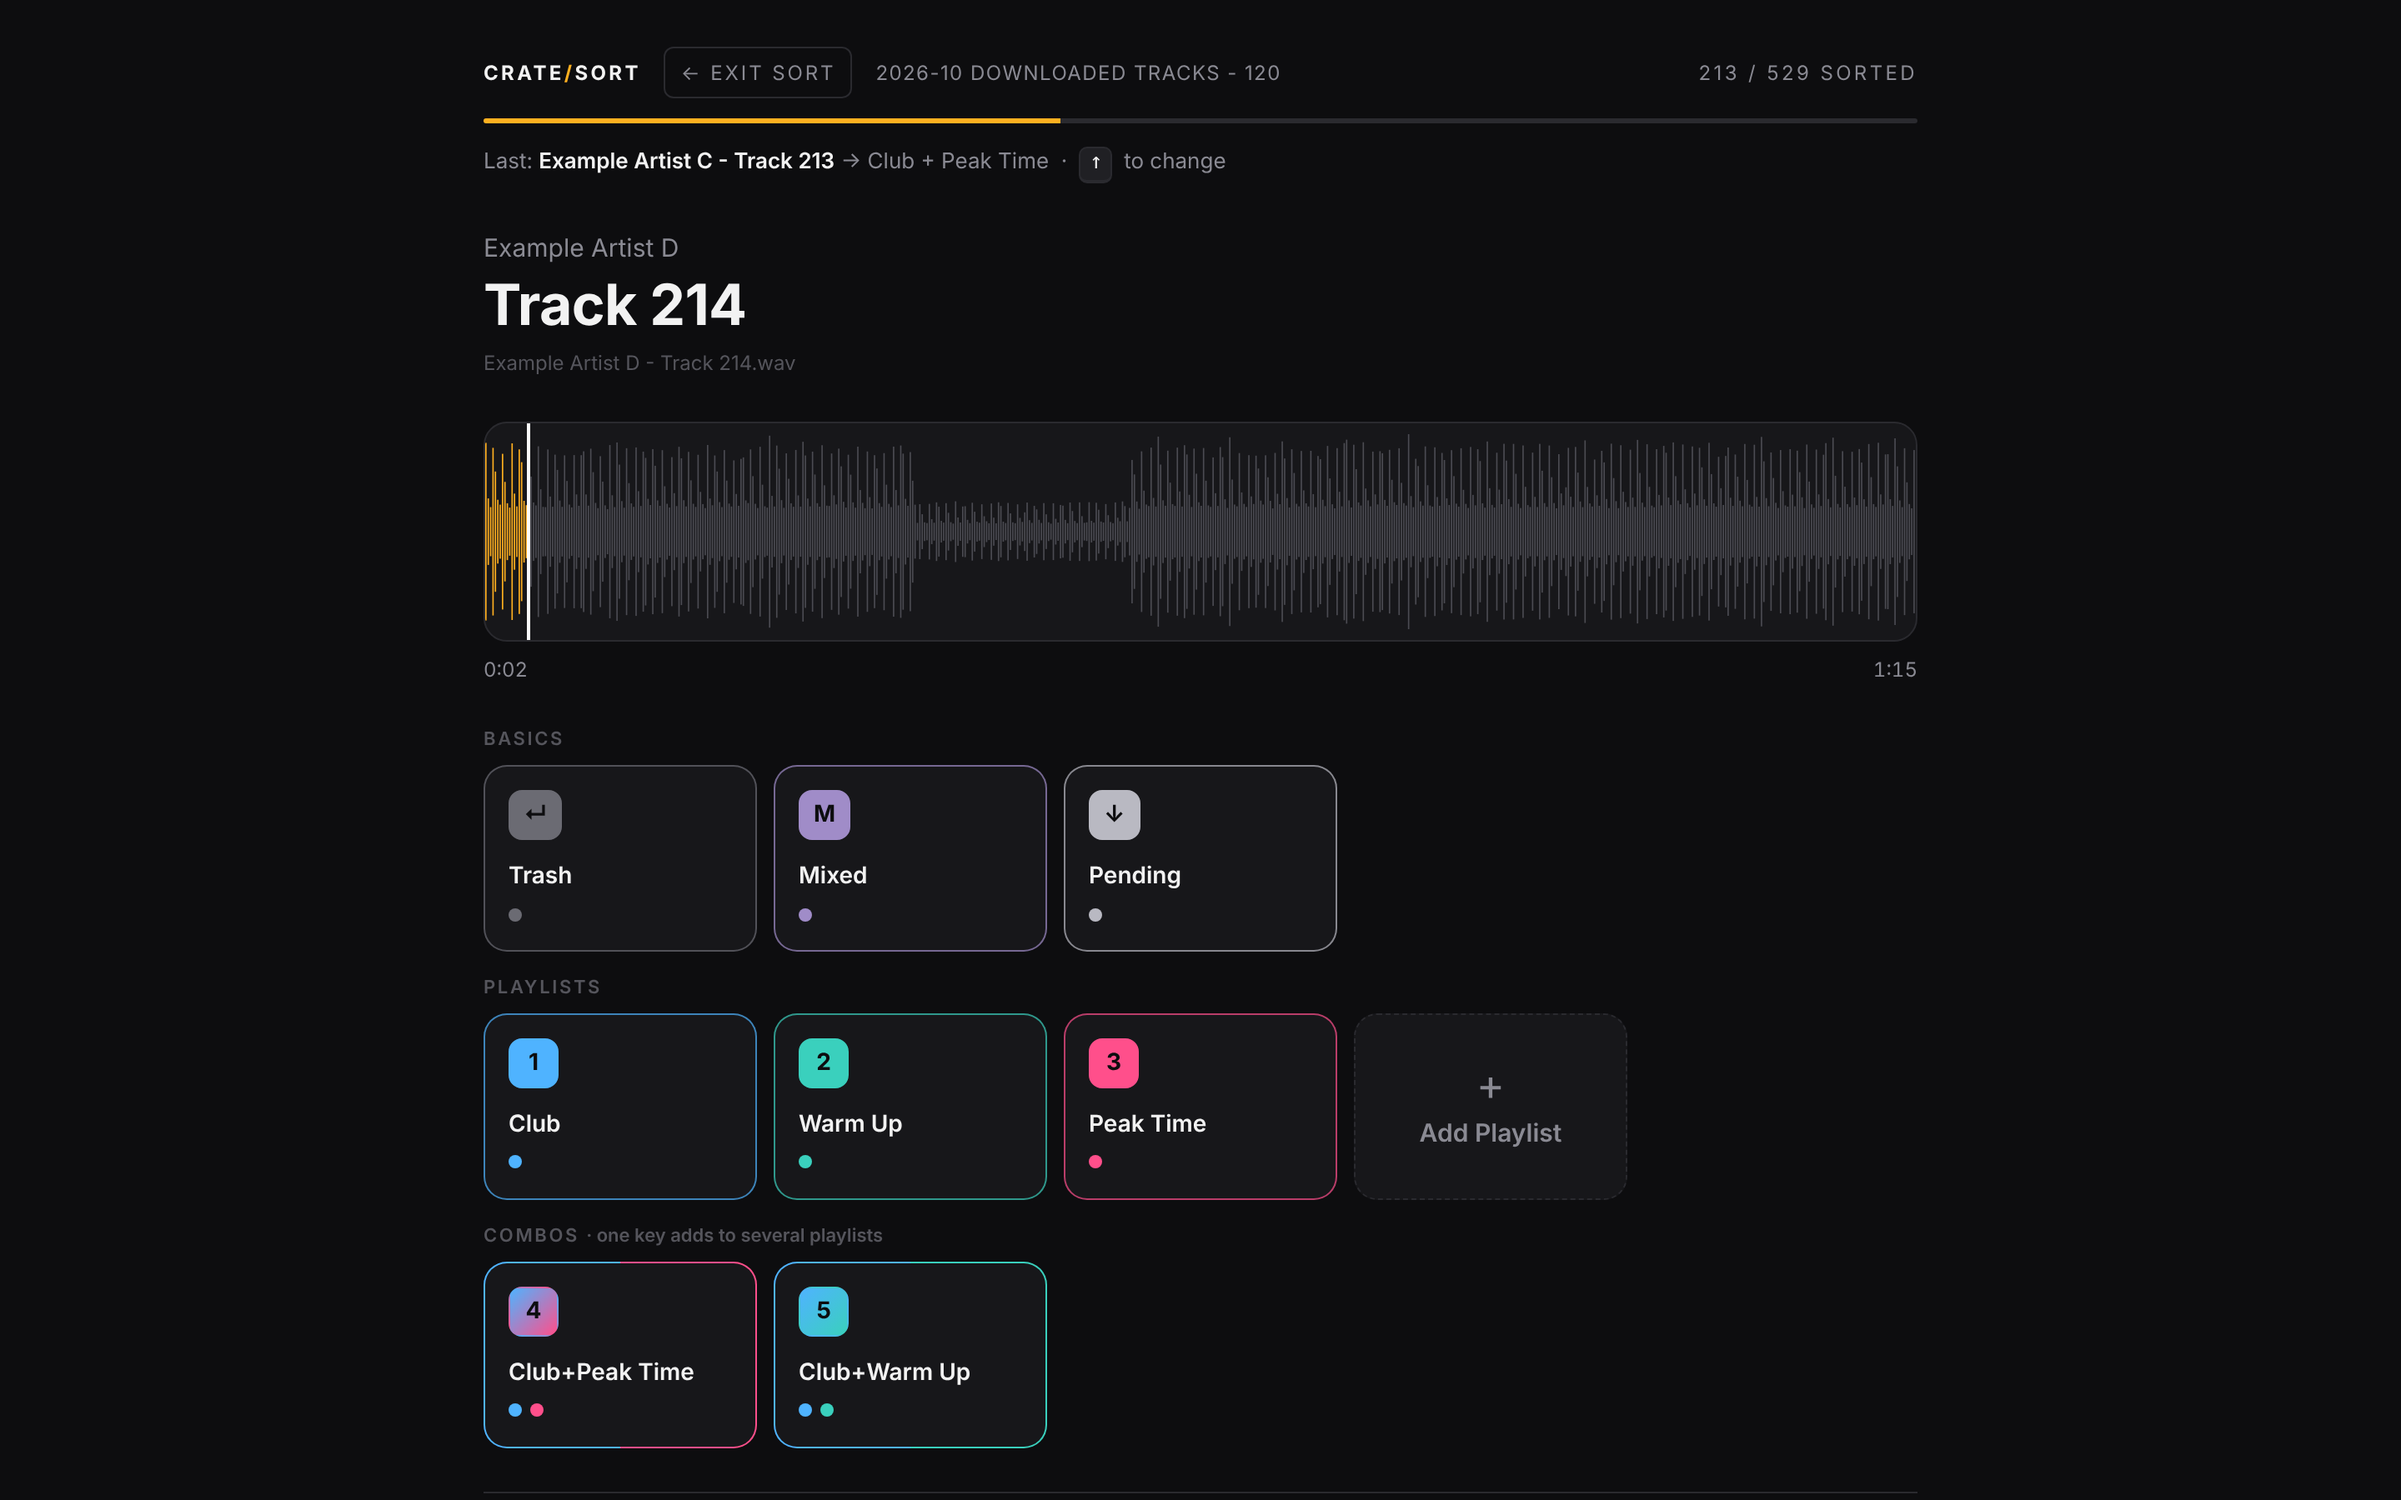
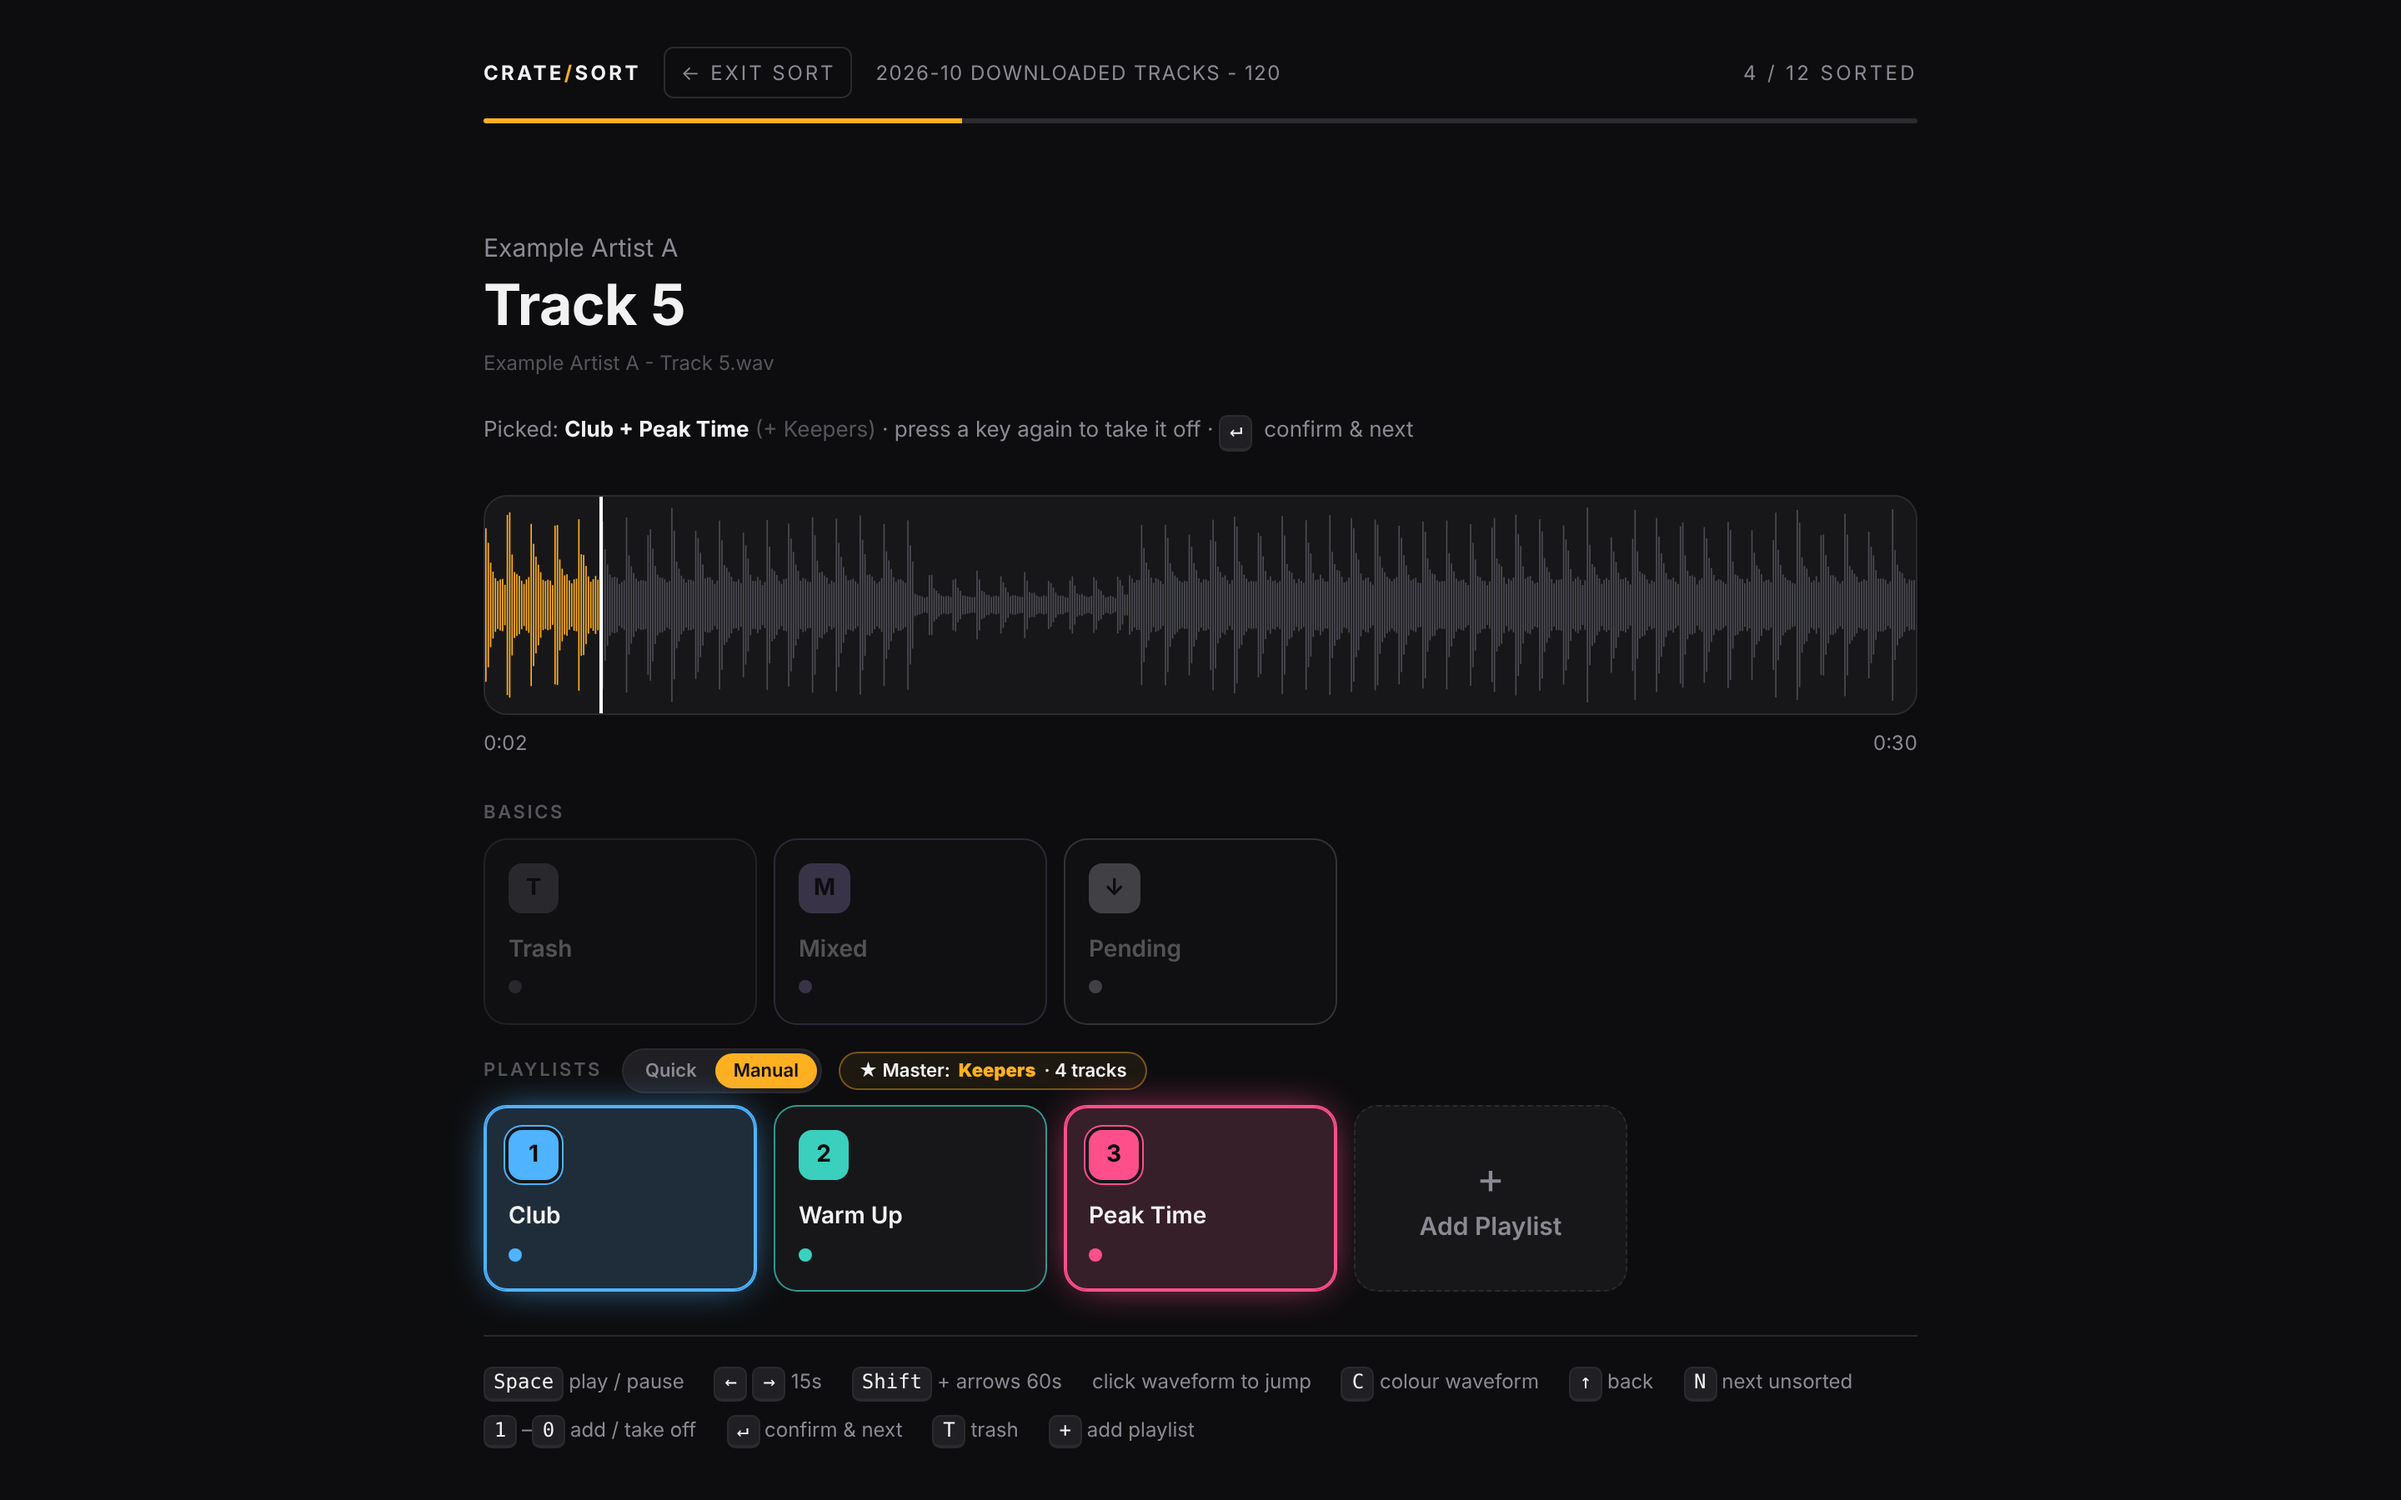
README for 1.3.0: Manual / Quick, master playlist, previously used keys, unplayable files
Claude-Session: https://claude.ai/code/session_01Ury4WS77ZjsuTCQYSC93Jt

diff --git a/README.md b/README.md
@@ -3,7 +3,7 @@
 # Crateful
 
 **Simply sort your exported rekordbox.m3u8/.txt files.**<br>
-Listen to a track, press one key, move on. One key can drop a track into several playlists at once.<br>
+Listen to a track, press its keys, move on. Put a track into as many playlists as you like in one go.<br>
 Sort, split by BPM, rate, clear out duplicates, and see the hours you've saved.
 
 ![macOS app](https://img.shields.io/badge/macOS-app-000000?logo=apple&logoColor=white)
@@ -17,9 +17,14 @@ Sort, split by BPM, rate, clear out duplicates, and see the hours you've saved.
 
 </div>
 
-### One key, several playlists
+### Several playlists in one go
 
-The thing rekordbox can't do: put a track into **Club** *and* **Peak Time** with a single key press. Make a combo once (say **4 = Club + Peak Time**), and every time you press 4 the track lands in both playlists and the next one starts playing. No dragging the same track twice, no Ctrl-clicking playlists. Make as many combos as you like, and Crate Rate tags work the same way.
+The thing rekordbox can't do quickly: put a track into **Club** *and* **Peak Time** without dragging it twice. Crate Sort has two ways, and you can switch between them (the **Quick / Manual** switch next to Playlists):
+
+- **Manual** (the default): press **1** and **3**, they light up, press **Enter**. Press a key again to take it off. Any mix of playlists, no setting up.
+- **Quick**: one key per track and straight on to the next. Make a combo once (say **4 = Club + Peak Time**) and every press of 4 puts the track in both.
+
+Add a **master playlist** and every track you keep also goes into it automatically, so you end up with one list of everything you kept. Crate Rate tags work the Manual way: switch on as many as you like, then Enter.
 
 ![One key puts the track into Club and Peak Time](docs/screenshots/crate-sort-combo.gif)
 
@@ -39,7 +44,7 @@ Needs macOS 11 (Big Sur) or newer. Works on Apple Silicon and Intel Macs.
 
 | | |
 |---|---|
-| **Crate Sort**<br>Drop a `.m3u8` export and give every track one key. Enter for Trash, M for part of a mix, ↓ to decide later, 1–9 and 0 for your playlists. **Combos put a track in several playlists with one key** (e.g. 4 = Club + Peak Time). **Finish** writes everything into `FOR IMPORTING/`, ready for rekordbox. | ![Crate Sort](docs/screenshots/crate-sort.png) |
+| **Crate Sort**<br>Drop a `.m3u8` export and sort every track with your keys: 1–9 and 0 for your playlists, T for Trash, M for part of a mix, ↓ to decide later. **Manual** lets you pick several playlists then Enter; **Quick** is one key per track, with **combos** for several at once (e.g. 4 = Club + Peak Time). A **master playlist** collects every track you keep, and **↺ Previously used** adds playlists from your other sessions. **Finish** writes everything into `FOR IMPORTING/`, ready for rekordbox. | ![Crate Sort](docs/screenshots/crate-sort.png) |
 | **Crate Split**<br>Drop a rekordbox `.txt` export and get one playlist per BPM, e.g. `2026-10 Downloaded Tracks - 120.01-120.99`. Tracks on an exact whole BPM can get their own playlist. Optionally starts a sorting session for each one. | ![Crate Split](docs/screenshots/crate-split.gif) |
 | **Crate Rate**<br>1–5 stars plus your own tags (e.g. *Purple: Euphoric*), then Enter to save and continue. A tempo fader (±6 / 10 / 16 / WIDE) with master tempo lets you hear how a track holds up sped up, and −/+ jumps to the next whole BPM. | ![Crate Rate](docs/screenshots/crate-rate.png) |
 | **Crate Dedupe**<br>Drop rekordbox's collection `.xml` and go through your duplicates one song at a time: every copy side by side with its file type, bitrate, artwork, album, cues, plays and folder, plus its own player so you can hear the difference. The best copy is ticked for you; 1–9 changes what you keep, Enter moves on. It warns you before you lose a playlist, your cues or a Crate Sort playlist. Crateful deletes nothing: the copies to get rid of go into one playlist, `DupedTracksToDelete.m3u8`, to remove in rekordbox. | ![Crate Dedupe](docs/screenshots/crate-dedupe.png) |
@@ -50,7 +55,8 @@ Needs macOS 11 (Big Sur) or newer. Works on Apple Silicon and Intel Macs.
 | | rekordbox | Crateful |
 |---|:---:|:---:|
 | One key per track, no dragging or scrolling | ✗ | ✓ |
-| **Add a track to several playlists with one key** (e.g. Club + Peak Time) | ✗ | ✓ |
+| **Add a track to several playlists in one go** (e.g. Club + Peak Time) | ✗ | ✓ |
+| One playlist of everything you kept, filled in as you go | ✗ | ✓ |
 | Know exactly where you left off, and how far through you are | ✓ | ✓ |
 | Park unsure tracks and get taken back to them at the end | ✗ | ✓ |
 | Split a dump into one playlist per BPM in one go | ✗ | ✓ |
@@ -63,12 +69,32 @@ Needs macOS 11 (Big Sur) or newer. Works on Apple Silicon and Intel Macs.
 <details>
 <summary><b>Crate Sort</b></summary>
 
+**Manual** (the default)
+
 | Key | Does |
 |---|---|
+| 1–9, 0 | switch a playlist on or off for this track: as many as you like |
+| Enter | confirm and go to the next track |
+| T | Trash |
+| M | Mixed (part of a mix) |
+| ↓ | Pending Decision: revisited at the end |
+
+T, M and ↓ only work while no playlist is switched on. Going back to a track (↑) keeps you on it until you press Enter.
+
+**Quick**
+
+| Key | Does |
+|---|---|
+| 1–9, 0 | your playlists and combos: one press and on to the next track. A combo is one key for several playlists, e.g. 4 = Club + Peak Time |
 | Enter | Trash |
 | M | Mixed (part of a mix) |
 | ↓ | Pending Decision: revisited at the end |
-| 1–9, 0 | your playlists and combos (add them with **+ Add Playlist** or the + key). A combo is one key for several playlists, e.g. 4 = Club + Peak Time |
+
+**Both**
+
+| Key | Does |
+|---|---|
+| + | add a playlist (or **↺ Previously used** to pick ones from your other sessions) |
 | ↑ | back to the last track |
 | Space | play / pause |
 | ← → | jump 15 s (Shift: 60 s), or click the waveform |
@@ -141,7 +167,16 @@ Preferences are saved in `crateful.config.json` in `~/Library/Application Suppor
 *No. Audio files are only read. Crateful writes playlists into its own folder (`~/Music/crateful`), and nothing reaches rekordbox until you import a playlist yourself.*
 
 **Can a track go into more than one playlist, say Club and Peak Time?**<br>
-*Yes, with one key. Add Club and Peak Time as playlists, then add one more key and tick both of them: that makes a combo. One press of it (say 4 = Club + Peak Time) puts the track in both and moves on. Doing the same in rekordbox means dragging the track into each playlist one by one. In Crate Rate, tags work the same way: switch on as many as you like, then Enter.*
+*Yes. In **Manual** (the default), press 1 and 3, then Enter: the track goes into both. In **Quick**, make a combo once (add one more key and tick Club and Peak Time), and one press of it (say 4) puts the track in both and moves on. A session with a combo that has tracks in it stays in Quick. Doing the same in rekordbox means dragging the track into each playlist one by one.*
+
+**Is there one playlist with everything I've kept?**<br>
+*Yes: click **+ Master playlist** next to the Quick / Manual switch and give it a name. Every track you put into any of your playlists also goes into it; Trash, Mixed and Pending never do, and a track you change to one of those comes back out. Once it has tracks, it stays on for that session (you can still rename it). Crateful also combines each playlist across all your sessions in `crate-sort/_all-sessions/`, so `_all-sessions/<name>.m3u8` holds every kept track from every session.*
+
+**Can I remove a playlist key?**<br>
+*Only while nothing has been sorted into it. Once a key (or combo) has tracks, you can rename it (⋯) but not remove it, so nothing you've sorted goes missing.*
+
+**Can I rename a playlist?**<br>
+*Yes, in Crateful (⋯ on its key, or on the master playlist). The file is renamed and your tracks follow it. Don't rename Crateful's `.m3u8` files in Finder: Crateful rewrites each playlist from your decisions as you sort, so a file renamed inside a playlist's folder is replaced. Copy a playlist somewhere else if you want to keep a snapshot.*
 
 **What happens when I import into rekordbox? Are my old playlists affected?**<br>
 *Each `.m3u8` in `FOR IMPORTING/` comes in as a new playlist. Your existing playlists aren't touched, and tracks aren't duplicated: rekordbox matches them to the tracks already in your collection. If a playlist with the same name already exists, you'll get a second one beside it, so delete or rename the old one if the new one replaces it.*
@@ -175,6 +210,9 @@ Preferences are saved in `crateful.config.json` in `~/Library/Application Suppor
 
 **Which audio formats play?**<br>
 *MP3, WAV, AIFF, FLAC and M4A/AAC.*
+
+**My playlist has video files in it (.mpg, .mp4). What happens?**<br>
+*They're left out, so they can't stall the player. When you start a session or split a `.txt`, any track Crateful can't play is taken out and listed in `~/Music/crateful/unplayable/`, one playlist per file type (e.g. `Unplayable - MPG.m3u8`), so you know which they were. Crate Split warns you first, and the session's overview shows how many were left out. The files themselves aren't touched.*
 
 **Why does macOS warn me the first time I open it?**<br>
 *Crateful is free and isn't sold through Apple, so it isn't signed with a paid Apple developer account. Use **Open Anyway** (see Get started) once and it opens normally after that. Only download it from this repository's Releases.*
